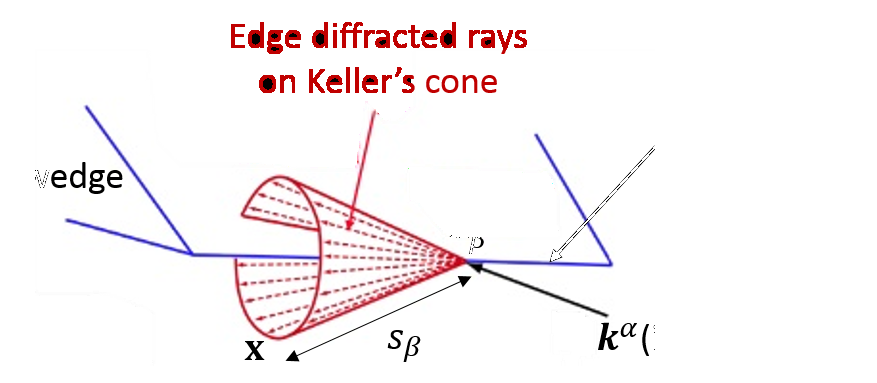
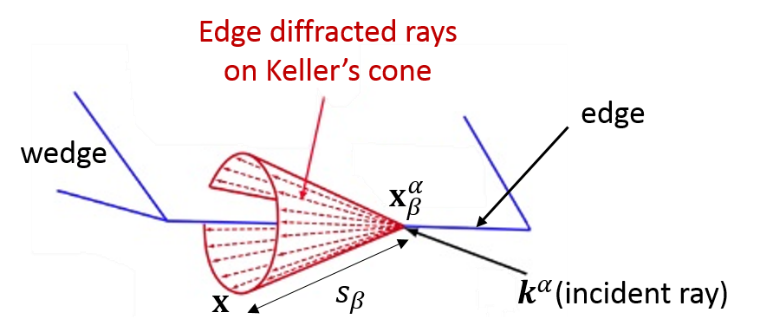
fixed keller cone

diff --git a/en-arborescence/corps/chapter1.tex b/en-arborescence/corps/chapter1.tex
@@ -77,8 +77,8 @@ The \acrshort{gtd} is a high-frequency model which accounts for edge-diffracted 
 %\subsection{The Physical Theory of Diffraction}
 
 %\subsection{Uniform Asymptotic Theory}
-\subsection{Uniform Theory of Diffraction}
+\subsection{\acrfull{utd}}
 
-\section{Existing GTD models}
+\section{Existing \acrshort{gtd} models}
 \subsection{The Sommerfeld Integral Method}
 \subsection{The Laplace Transform Method}

diff --git a/en-arborescence/these.tex b/en-arborescence/these.tex
@@ -122,7 +122,7 @@
 %\input{liminaires/epigraphes}
 %
 % Résumés succincts
-\input{liminaires/resumes}
+%\input{liminaires/resumes}
 %
 % (Facultatif) Chapitre de remerciements
 %\include{liminaires/remerciements}

diff --git a/en-arborescence/auxiliaires/acronymes.tex b/en-arborescence/auxiliaires/acronymes.tex
@@ -6,4 +6,5 @@
 \newacronym{L}{L}{Longitudinal}
 \newacronym{TH}{TH}{Transverse Horizontal}
 \newacronym{TV}{TV}{Transverse Vertical}
+\newacronym{utd}{UTD}{Uniform Theory of Diffraction}
 
